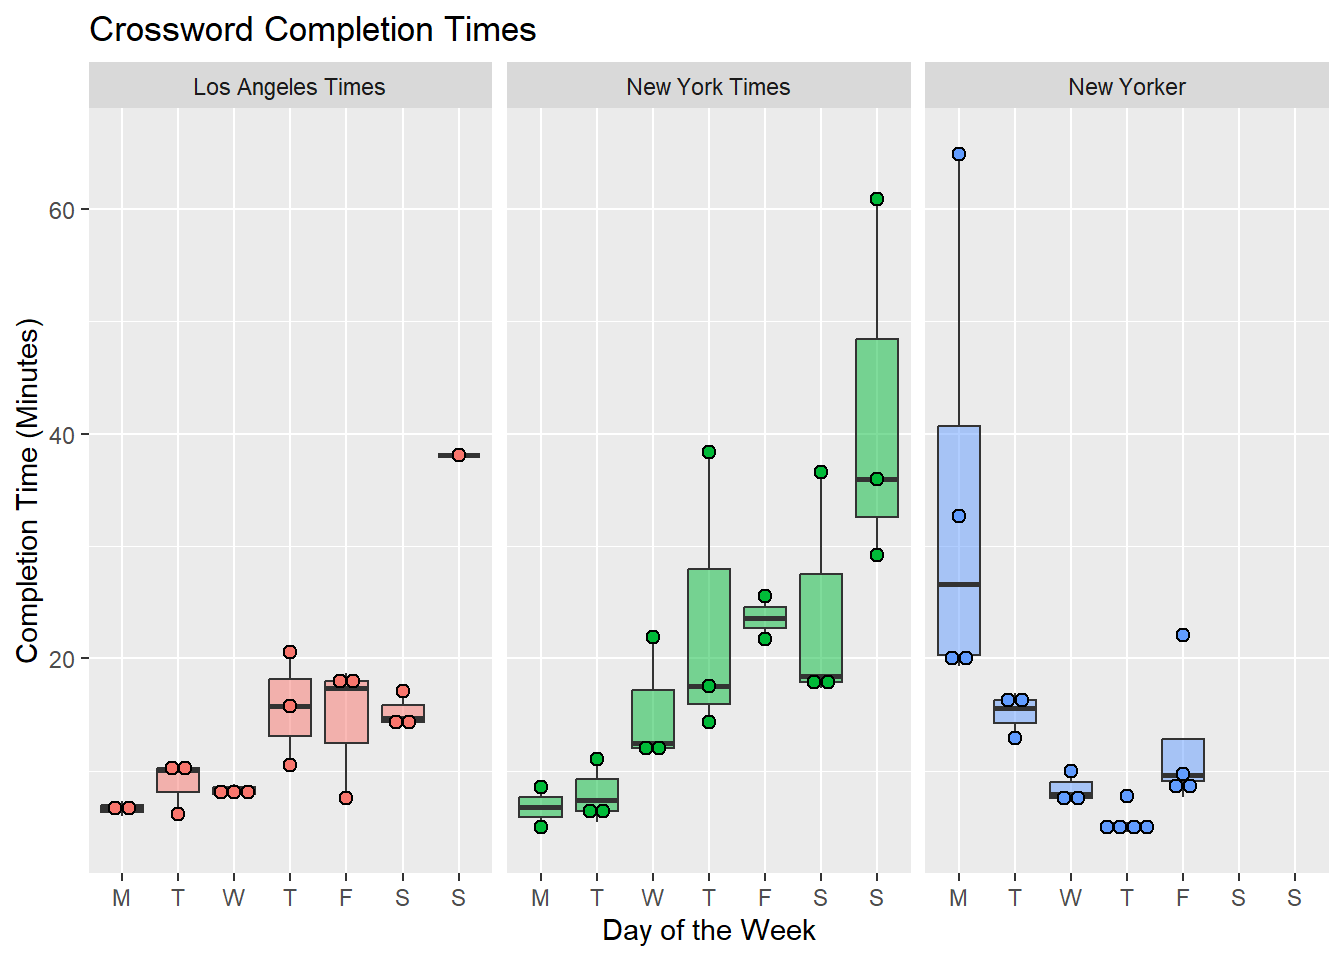
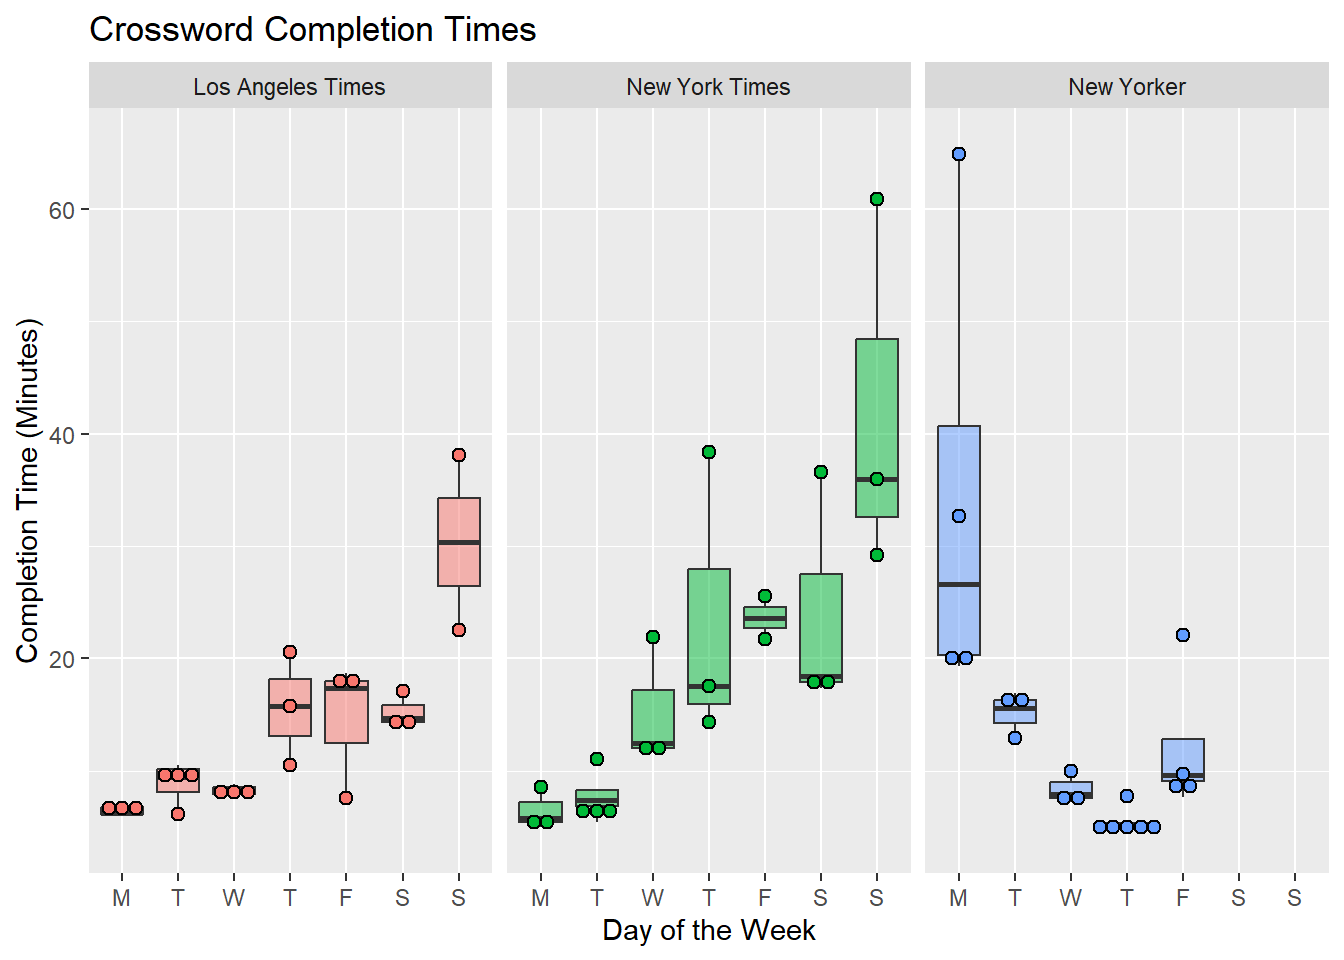
update crossword times data and plots

diff --git a/posts/crossword_times/crossword_times.html b/posts/crossword_times/crossword_times.html
@@ -200,11 +200,13 @@ code span.wa { color: #60a0b0; font-weight: bold; font-style: italic; } /* Warni
 <h2 class="anchored" data-anchor-id="introduction">Introduction</h2>
 <p><a href="https://downforacross.com/">Down For Across</a> is a website which allows you to solve user-uploaded crosswords solo or with friends.</p>
 <p>The crosswords published in major American newspapers often differ in difficulty according to the day of the week. For example, the <a href="https://www.nytimes.com/guides/crosswords/how-to-solve-a-crossword-puzzle">New York Times’ guide</a> explains that their Monday puzzles are the easiest and their Saturday puzzles the hardest. Meanwhile, the Sunday puzzles have easy clues but a large grid, and the Thursday puzzles have some unique gimmick. By contrast, the New Yorker’s crosswords decrease in difficulty over the week.</p>
-<p>I’ve started keeping track of my solo completion times for the New York Times, Los Angeles Times, and New Yorker crosswords. Below is a boxplot grouped by the publisher and day of the week.</p>
+<p>I’ve started keeping track of my solo completion times for the New York Times, Los Angeles Times, and New Yorker crosswords.</p>
 </section>
 <section id="visualizing-solve-times" class="level2">
 <h2 class="anchored" data-anchor-id="visualizing-solve-times">Visualizing Solve Times</h2>
+<p>There are a lot of ways to visualize a grouped collection of distributions. A box plot boils down each group to a five number summary. At the other extreme, one can simply plot a cloud of points. In between are binning methods like histograms and dot plots. We’ll build a box plot, a dot plot, and a chart that overlays both.</p>
 <p><code>lubridate</code> provides convenient date and time parsing functions like <code>ms</code>. <code>weekdays(as.Date('1970-01-01') + 4:10)</code> is a nice trick to produce a character vector with the names of the week, beginning with Monday.<a href="#fn1" class="footnote-ref" id="fnref1" role="doc-noteref"><sup>1</sup></a><a href="#fn2" class="footnote-ref" id="fnref2" role="doc-noteref"><sup>2</sup></a></p>
+<p>In the combined plot, we need to suppress the outliers in the box plot component in order to avoid double-plotting them.</p>
 <div class="panel-tabset">
 <ul class="nav nav-tabs" role="tablist"><li class="nav-item" role="presentation"><a class="nav-link active" id="tabset-1-1-tab" data-bs-toggle="tab" data-bs-target="#tabset-1-1" role="tab" aria-controls="tabset-1-1" aria-selected="true">Box Plot</a></li><li class="nav-item" role="presentation"><a class="nav-link" id="tabset-1-2-tab" data-bs-toggle="tab" data-bs-target="#tabset-1-2" role="tab" aria-controls="tabset-1-2" aria-selected="false">Dot Plot</a></li><li class="nav-item" role="presentation"><a class="nav-link" id="tabset-1-3-tab" data-bs-toggle="tab" data-bs-target="#tabset-1-3" role="tab" aria-controls="tabset-1-3" aria-selected="false">Both</a></li></ul>
 <div class="tab-content">
@@ -234,7 +236,7 @@ code span.wa { color: #60a0b0; font-weight: bold; font-style: italic; } /* Warni
 <span id="cb2-3"><a href="#cb2-3" aria-hidden="true" tabindex="-1"></a>                        <span class="fu">weekdays</span>(<span class="fu">as.Date</span>(<span class="st">'1970-01-01'</span>) <span class="sc">+</span> <span class="dv">4</span><span class="sc">:</span><span class="dv">10</span>)),</span>
 <span id="cb2-4"><a href="#cb2-4" aria-hidden="true" tabindex="-1"></a>             <span class="at">y =</span> <span class="fu">period_to_seconds</span>(<span class="fu">ms</span>(Time))<span class="sc">/</span><span class="dv">60</span>, </span>
 <span id="cb2-5"><a href="#cb2-5" aria-hidden="true" tabindex="-1"></a>             <span class="at">fill =</span> Publisher)) <span class="sc">+</span></span>
-<span id="cb2-6"><a href="#cb2-6" aria-hidden="true" tabindex="-1"></a>  <span class="fu">geom_dotplot</span>(<span class="at">shape =</span> <span class="dv">21</span>, <span class="at">binaxis =</span> <span class="st">"y"</span>, <span class="at">stackdir =</span> <span class="st">"center"</span>, <span class="at">dotsize =</span> <span class="fl">0.6</span>) <span class="sc">+</span></span>
+<span id="cb2-6"><a href="#cb2-6" aria-hidden="true" tabindex="-1"></a>  <span class="fu">geom_dotplot</span>(<span class="at">binaxis =</span> <span class="st">"y"</span>, <span class="at">stackdir =</span> <span class="st">"center"</span>, <span class="at">dotsize =</span> <span class="fl">0.6</span>) <span class="sc">+</span></span>
 <span id="cb2-7"><a href="#cb2-7" aria-hidden="true" tabindex="-1"></a>  <span class="fu">scale_x_discrete</span>(<span class="at">labels =</span> <span class="fu">c</span>(<span class="st">"M"</span>, <span class="st">"T"</span>, <span class="st">"W"</span>, <span class="st">"T"</span>, <span class="st">"F"</span>, <span class="st">"S"</span>, <span class="st">"S"</span>)) <span class="sc">+</span></span>
 <span id="cb2-8"><a href="#cb2-8" aria-hidden="true" tabindex="-1"></a>  <span class="fu">facet_wrap</span>(<span class="sc">~</span>Publisher) <span class="sc">+</span></span>
 <span id="cb2-9"><a href="#cb2-9" aria-hidden="true" tabindex="-1"></a>  <span class="fu">guides</span>(<span class="at">fill =</span> <span class="cn">FALSE</span>) <span class="sc">+</span> </span>
@@ -254,7 +256,7 @@ code span.wa { color: #60a0b0; font-weight: bold; font-style: italic; } /* Warni
 <span id="cb3-4"><a href="#cb3-4" aria-hidden="true" tabindex="-1"></a>             <span class="at">y =</span> <span class="fu">period_to_seconds</span>(<span class="fu">ms</span>(Time))<span class="sc">/</span><span class="dv">60</span>, </span>
 <span id="cb3-5"><a href="#cb3-5" aria-hidden="true" tabindex="-1"></a>             <span class="at">fill =</span> Publisher)) <span class="sc">+</span></span>
 <span id="cb3-6"><a href="#cb3-6" aria-hidden="true" tabindex="-1"></a>  <span class="fu">geom_boxplot</span>(<span class="at">outlier.shape =</span> <span class="cn">NA</span>, <span class="at">alpha =</span> <span class="fl">0.5</span>) <span class="sc">+</span></span>
-<span id="cb3-7"><a href="#cb3-7" aria-hidden="true" tabindex="-1"></a>  <span class="fu">geom_dotplot</span>(<span class="at">shape =</span> <span class="dv">21</span>, <span class="at">binaxis =</span> <span class="st">"y"</span>, <span class="at">stackdir =</span> <span class="st">"center"</span>, <span class="at">dotsize =</span> <span class="fl">0.6</span>) <span class="sc">+</span></span>
+<span id="cb3-7"><a href="#cb3-7" aria-hidden="true" tabindex="-1"></a>  <span class="fu">geom_dotplot</span>(<span class="at">binaxis =</span> <span class="st">"y"</span>, <span class="at">stackdir =</span> <span class="st">"center"</span>, <span class="at">dotsize =</span> <span class="fl">0.6</span>) <span class="sc">+</span></span>
 <span id="cb3-8"><a href="#cb3-8" aria-hidden="true" tabindex="-1"></a>  <span class="fu">scale_x_discrete</span>(<span class="at">labels =</span> <span class="fu">c</span>(<span class="st">"M"</span>, <span class="st">"T"</span>, <span class="st">"W"</span>, <span class="st">"T"</span>, <span class="st">"F"</span>, <span class="st">"S"</span>, <span class="st">"S"</span>)) <span class="sc">+</span></span>
 <span id="cb3-9"><a href="#cb3-9" aria-hidden="true" tabindex="-1"></a>  <span class="fu">facet_wrap</span>(<span class="sc">~</span>Publisher) <span class="sc">+</span></span>
 <span id="cb3-10"><a href="#cb3-10" aria-hidden="true" tabindex="-1"></a>  <span class="fu">guides</span>(<span class="at">fill =</span> <span class="cn">FALSE</span>) <span class="sc">+</span> </span>

diff --git a/posts.html b/posts.html
@@ -143,7 +143,7 @@ ul.task-list li input[type="checkbox"] {
 
 <div class="quarto-listing quarto-listing-container-default" id="listing-listing">
 <div class="list quarto-listing-default">
-<div class="quarto-post image-right" data-index="0" data-listing-date-sort="1672635600000" data-listing-file-modified-sort="1673228640370" data-listing-reading-time-sort="3.195">
+<div class="quarto-post image-right" data-index="0" data-listing-date-sort="1672635600000" data-listing-file-modified-sort="1673361517189" data-listing-reading-time-sort="3.51">
 <div class="thumbnail">
 <p><a href="./posts/crossword_times/crossword_times.html"> <img src="./posts/crossword_times/crossword_times.jpg" class="thumnail-image"> </a></p>
 </div>
